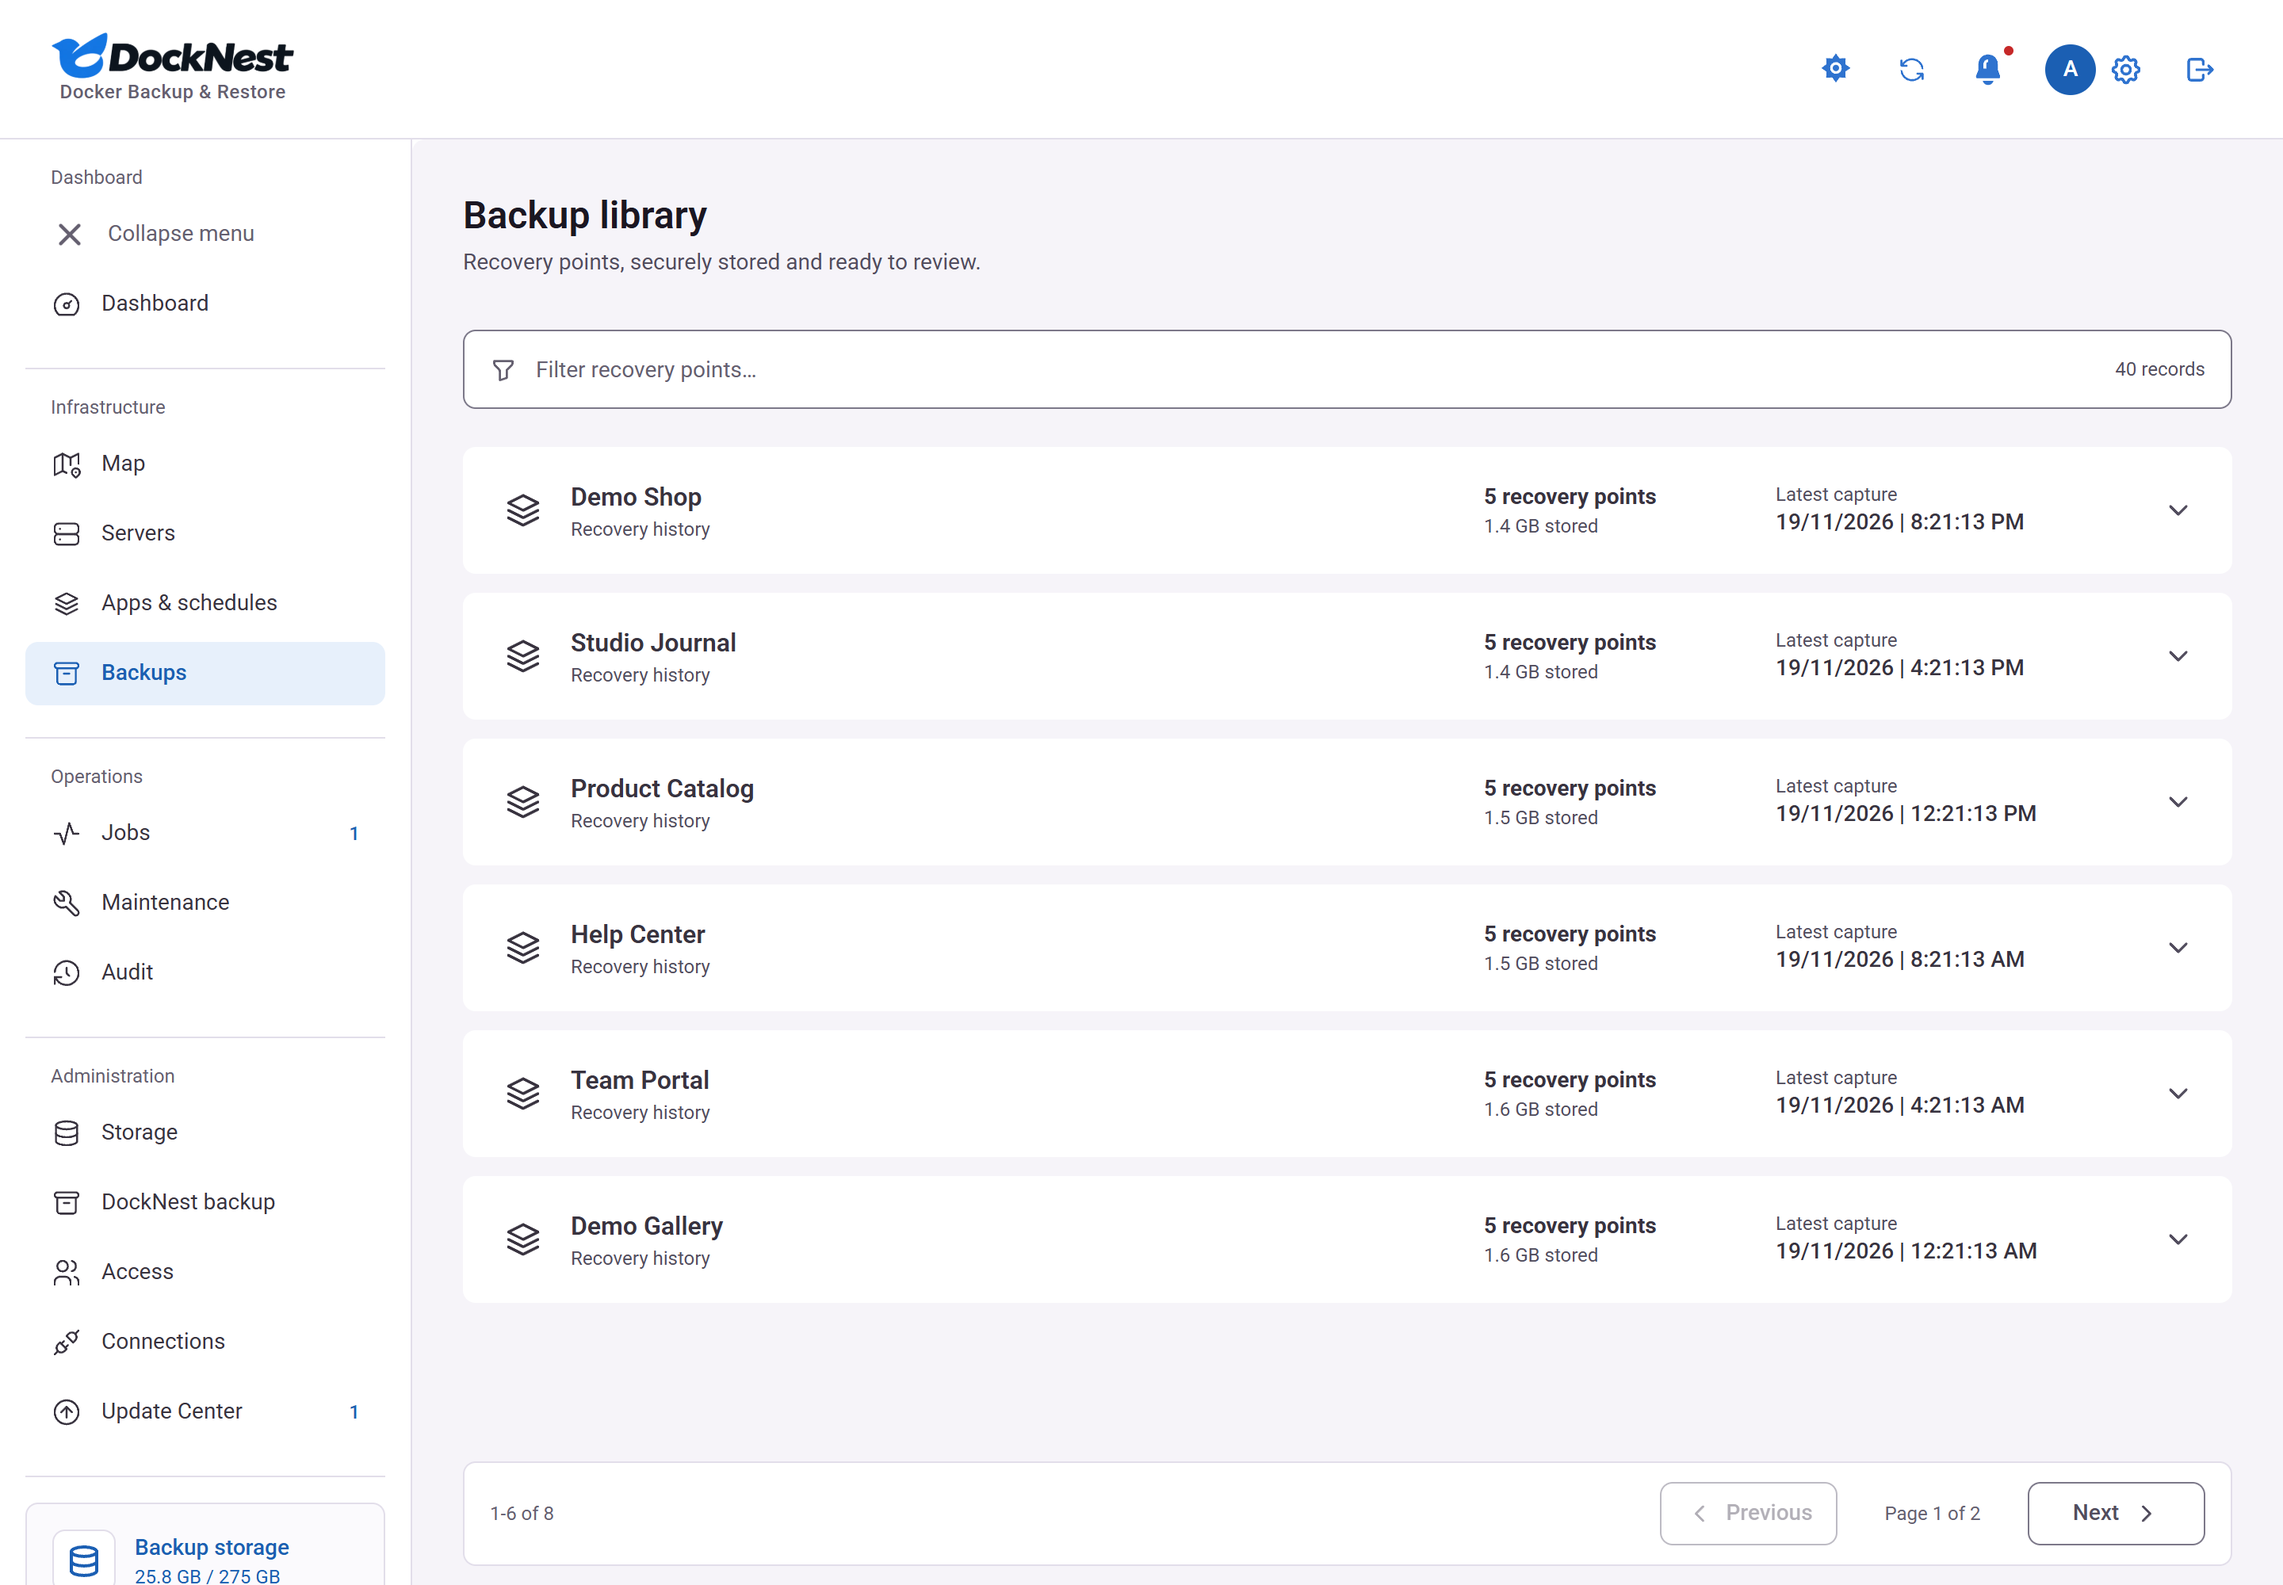
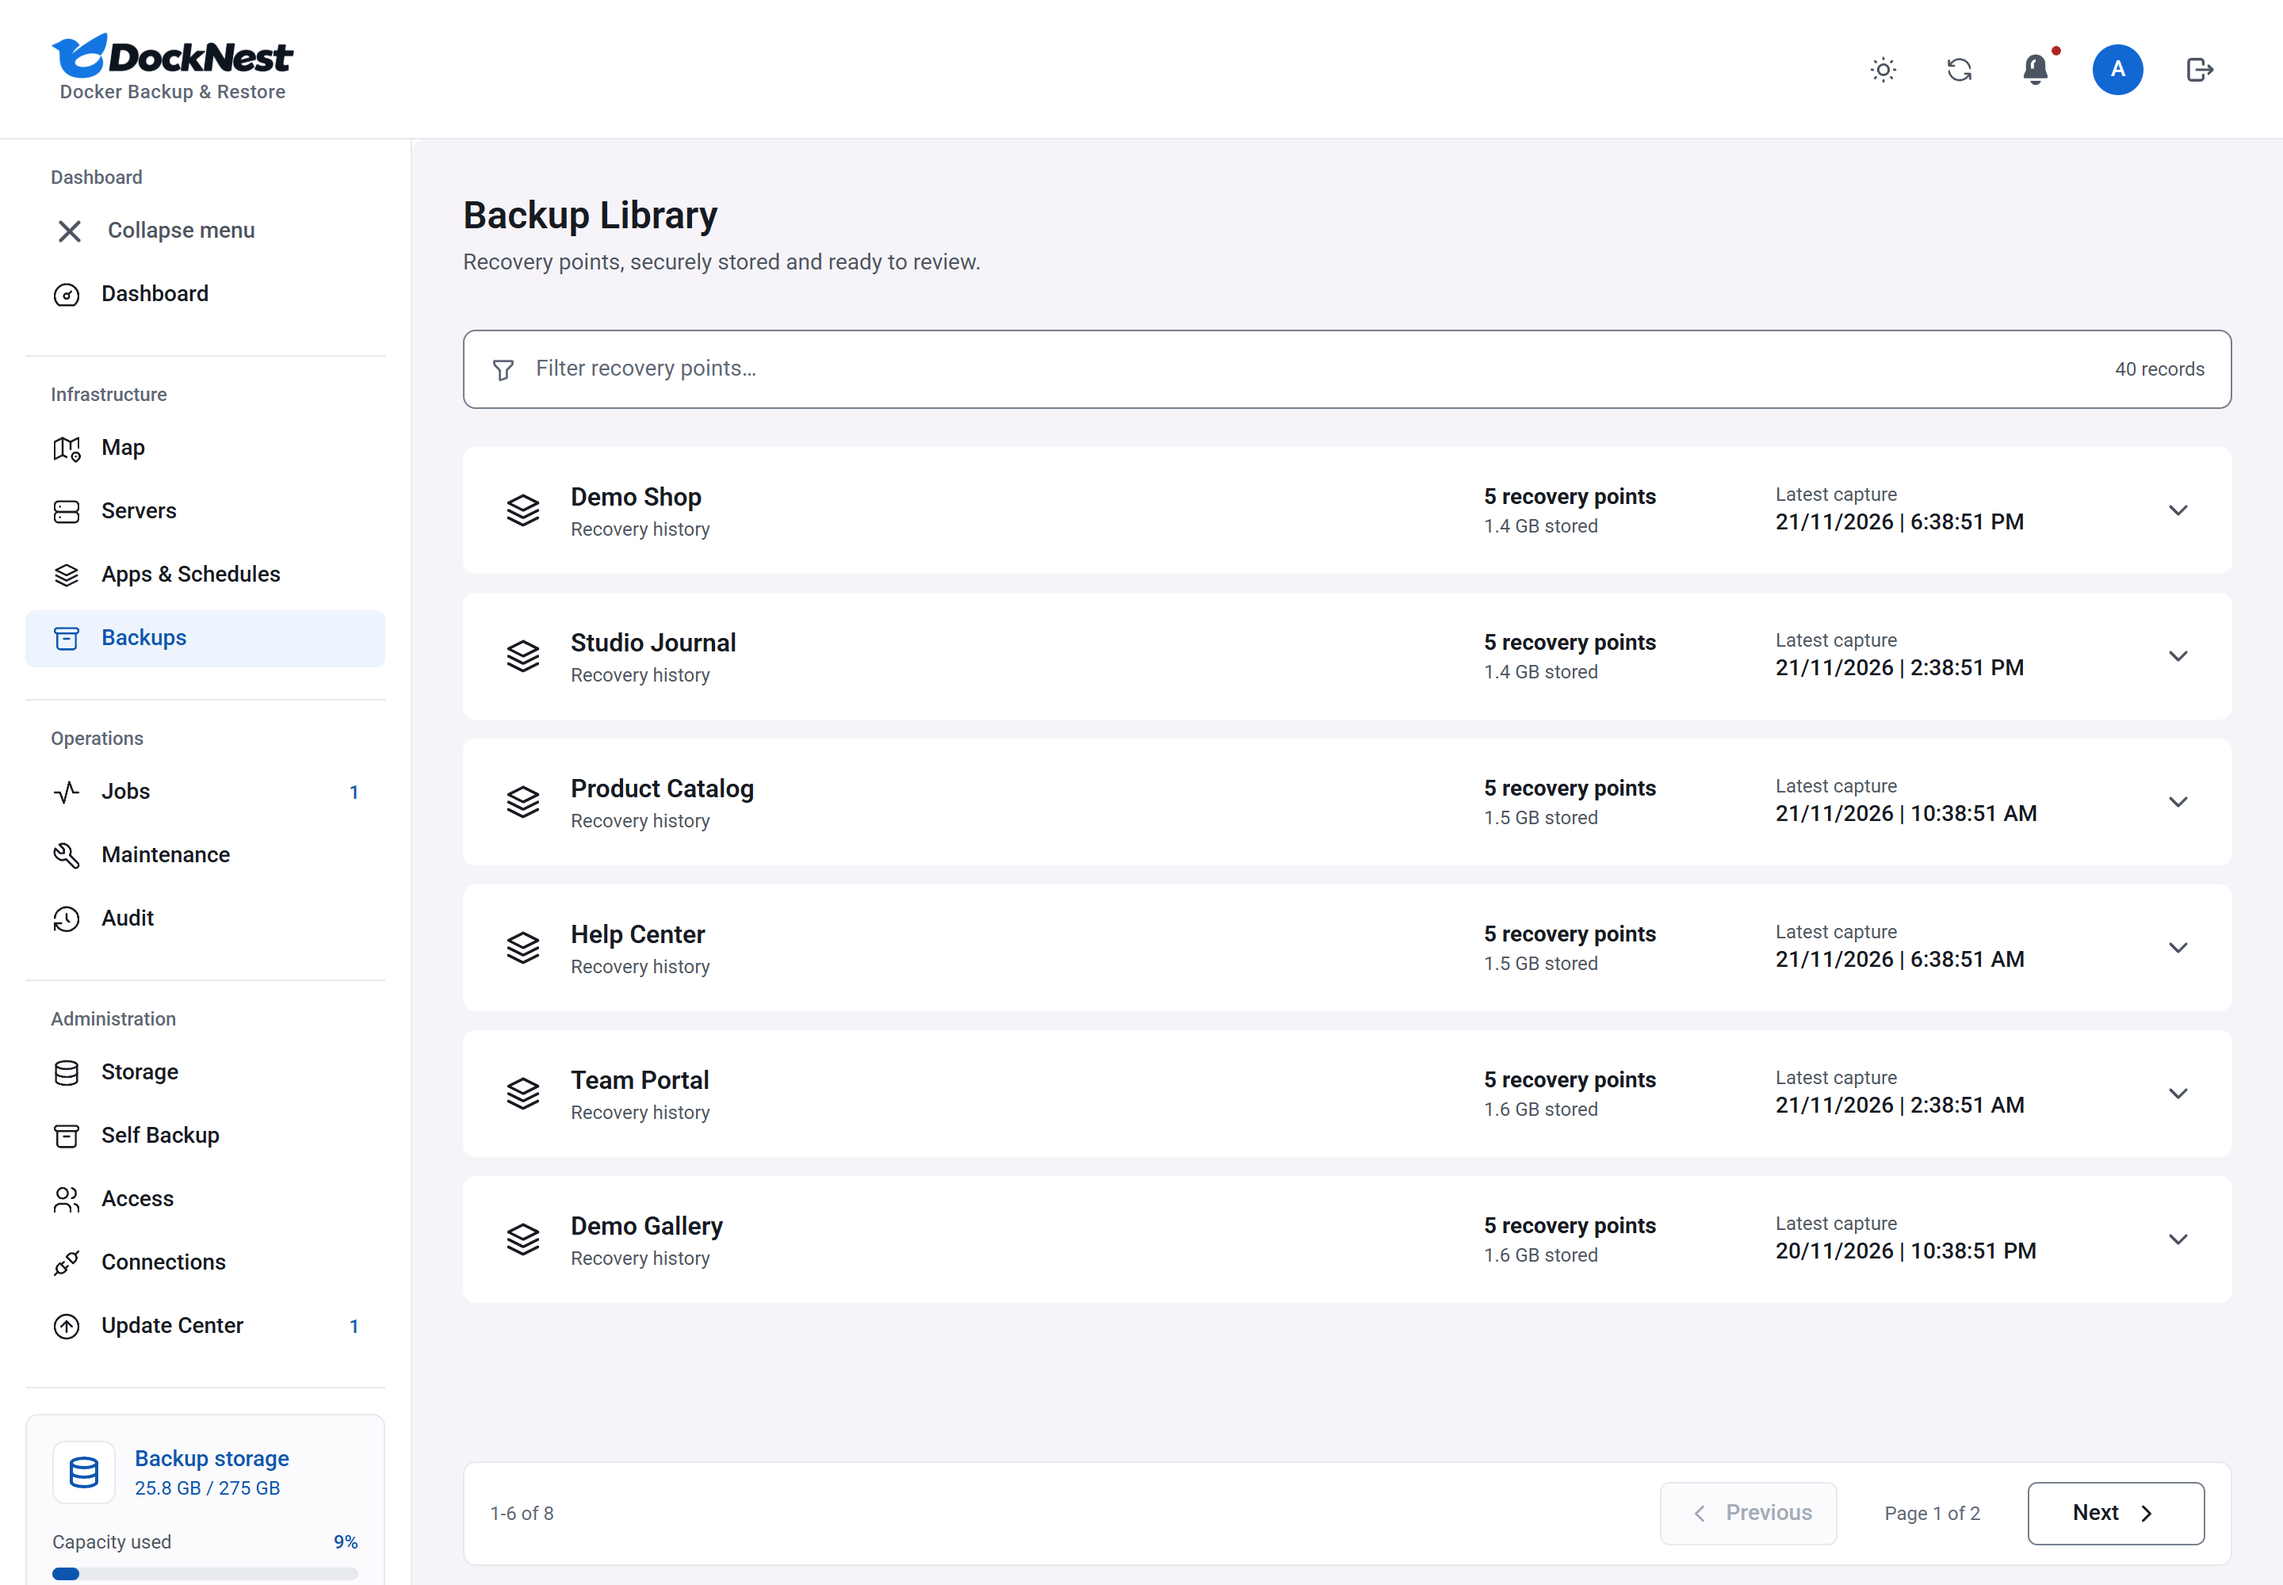
docs: refresh screenshots and README for the 3.0.0 interface

diff --git a/README.md b/README.md
@@ -60,7 +60,7 @@ DockNest is a self-hosted web app. It connects to your Linux servers over SSH, b
 - Linked apps: each server scan shows which apps depend on each other, such as a database, network or volume they share, and which containers they use that no app backs up. Read-only and warn-only. See [linked apps](docs/linked-apps.md).
 - Update Center with an opt-in update check and click-to-update through a host updater.
 - Problem reports that open a pre-filled public GitHub issue with typed values only, after you review what is shared.
-- Light and dark themes, and a layout for phones.
+- A refreshed interface (design system v2) in light and dark themes, with a layout for phones and a sign-in page where the password dots and code digits animate as you type.
 
 **Map and moving apps**
 - A Map page shows your servers, their apps and your backup storage as connected nodes. Click any node for its details, such as the databases that move with an app.
@@ -98,7 +98,17 @@ DockNest is a self-hosted web app. It connects to your Linux servers over SSH, b
     <td width="50%"><img src="docs/media/update-center.png" width="100%" alt="Update Center showing an available update and the host updater status" /></td>
     <td width="50%"><img src="docs/media/job-details.png" width="100%" alt="Job details for a running backup of a synthetic app, with transfer progress and a step timeline" /></td>
   </tr>
+  <tr>
+    <td width="50%"><img src="docs/media/self-backup.png" width="100%" alt="Self Backup page with the latest recovery kit and recovery settings" /></td>
+    <td width="50%"><img src="docs/media/login.png" width="100%" alt="Sign-in page with a password field showing typed dots" /></td>
+  </tr>
+  <tr>
+    <td width="50%"><img src="docs/media/dashboard-dark.png" width="100%" alt="Dashboard in the dark theme" /></td>
+    <td width="50%"><img src="docs/media/self-backup-dark.png" width="100%" alt="Self Backup page in the dark theme" /></td>
+  </tr>
 </table>
+
+<!-- Screenshots for Recovery Guide, Keys safe and Domains are added when their pages land. -->
 
 ## Requirements
 
